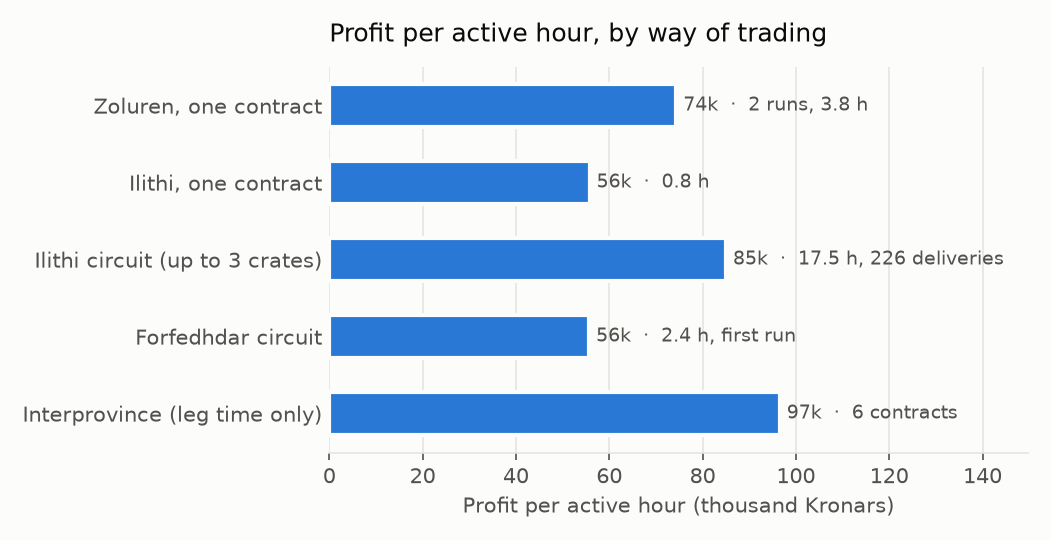
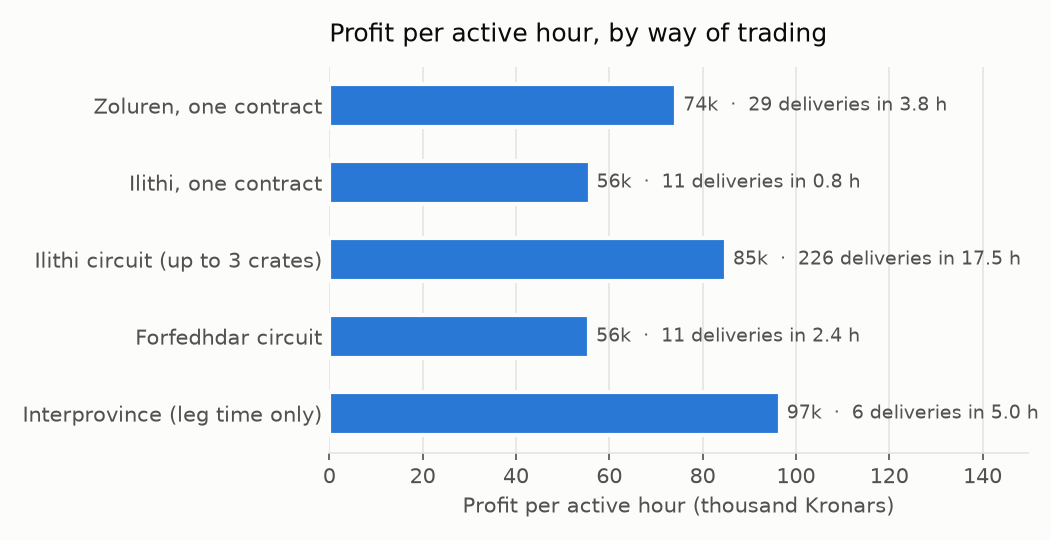
docs(caravans): one annotation per bar, deliveries and active hours
The profit plot's labels mixed runs, hours and contracts; each bar now
says the same thing, its deliveries in its active hours.

diff --git a/docs/caravans.md b/docs/caravans.md
@@ -27,6 +27,6 @@ A leg's median time: Ilithi 5 minutes, Zoluren 6½, Forfedhdar 12, another provi
 
 - A circuit stays in one province: at each stop every crate for that town is handed in and the town's own contract taken, then the caravan leads to the nearest town with business. It earns more per hour than one contract at a time by delivering more often: about 13 crates an hour against 8, crates for several towns riding every leg.
 - Interprovince contracts pay the most per hour of leg, but the legs are long and the wait for the next contract is not counted above.
-- Forfedhdar's first circuit was slower: long legs, Boar Clan reached by way of Hibarnhvidar and Ain Ghazal across a ferry.
+- Forfedhdar's circuit was slower: long legs, Boar Clan reached by way of Hibarnhvidar and Ain Ghazal across a ferry.
 
 [trade.md](trade.md) is `;trade`, the script that runs all of this.
